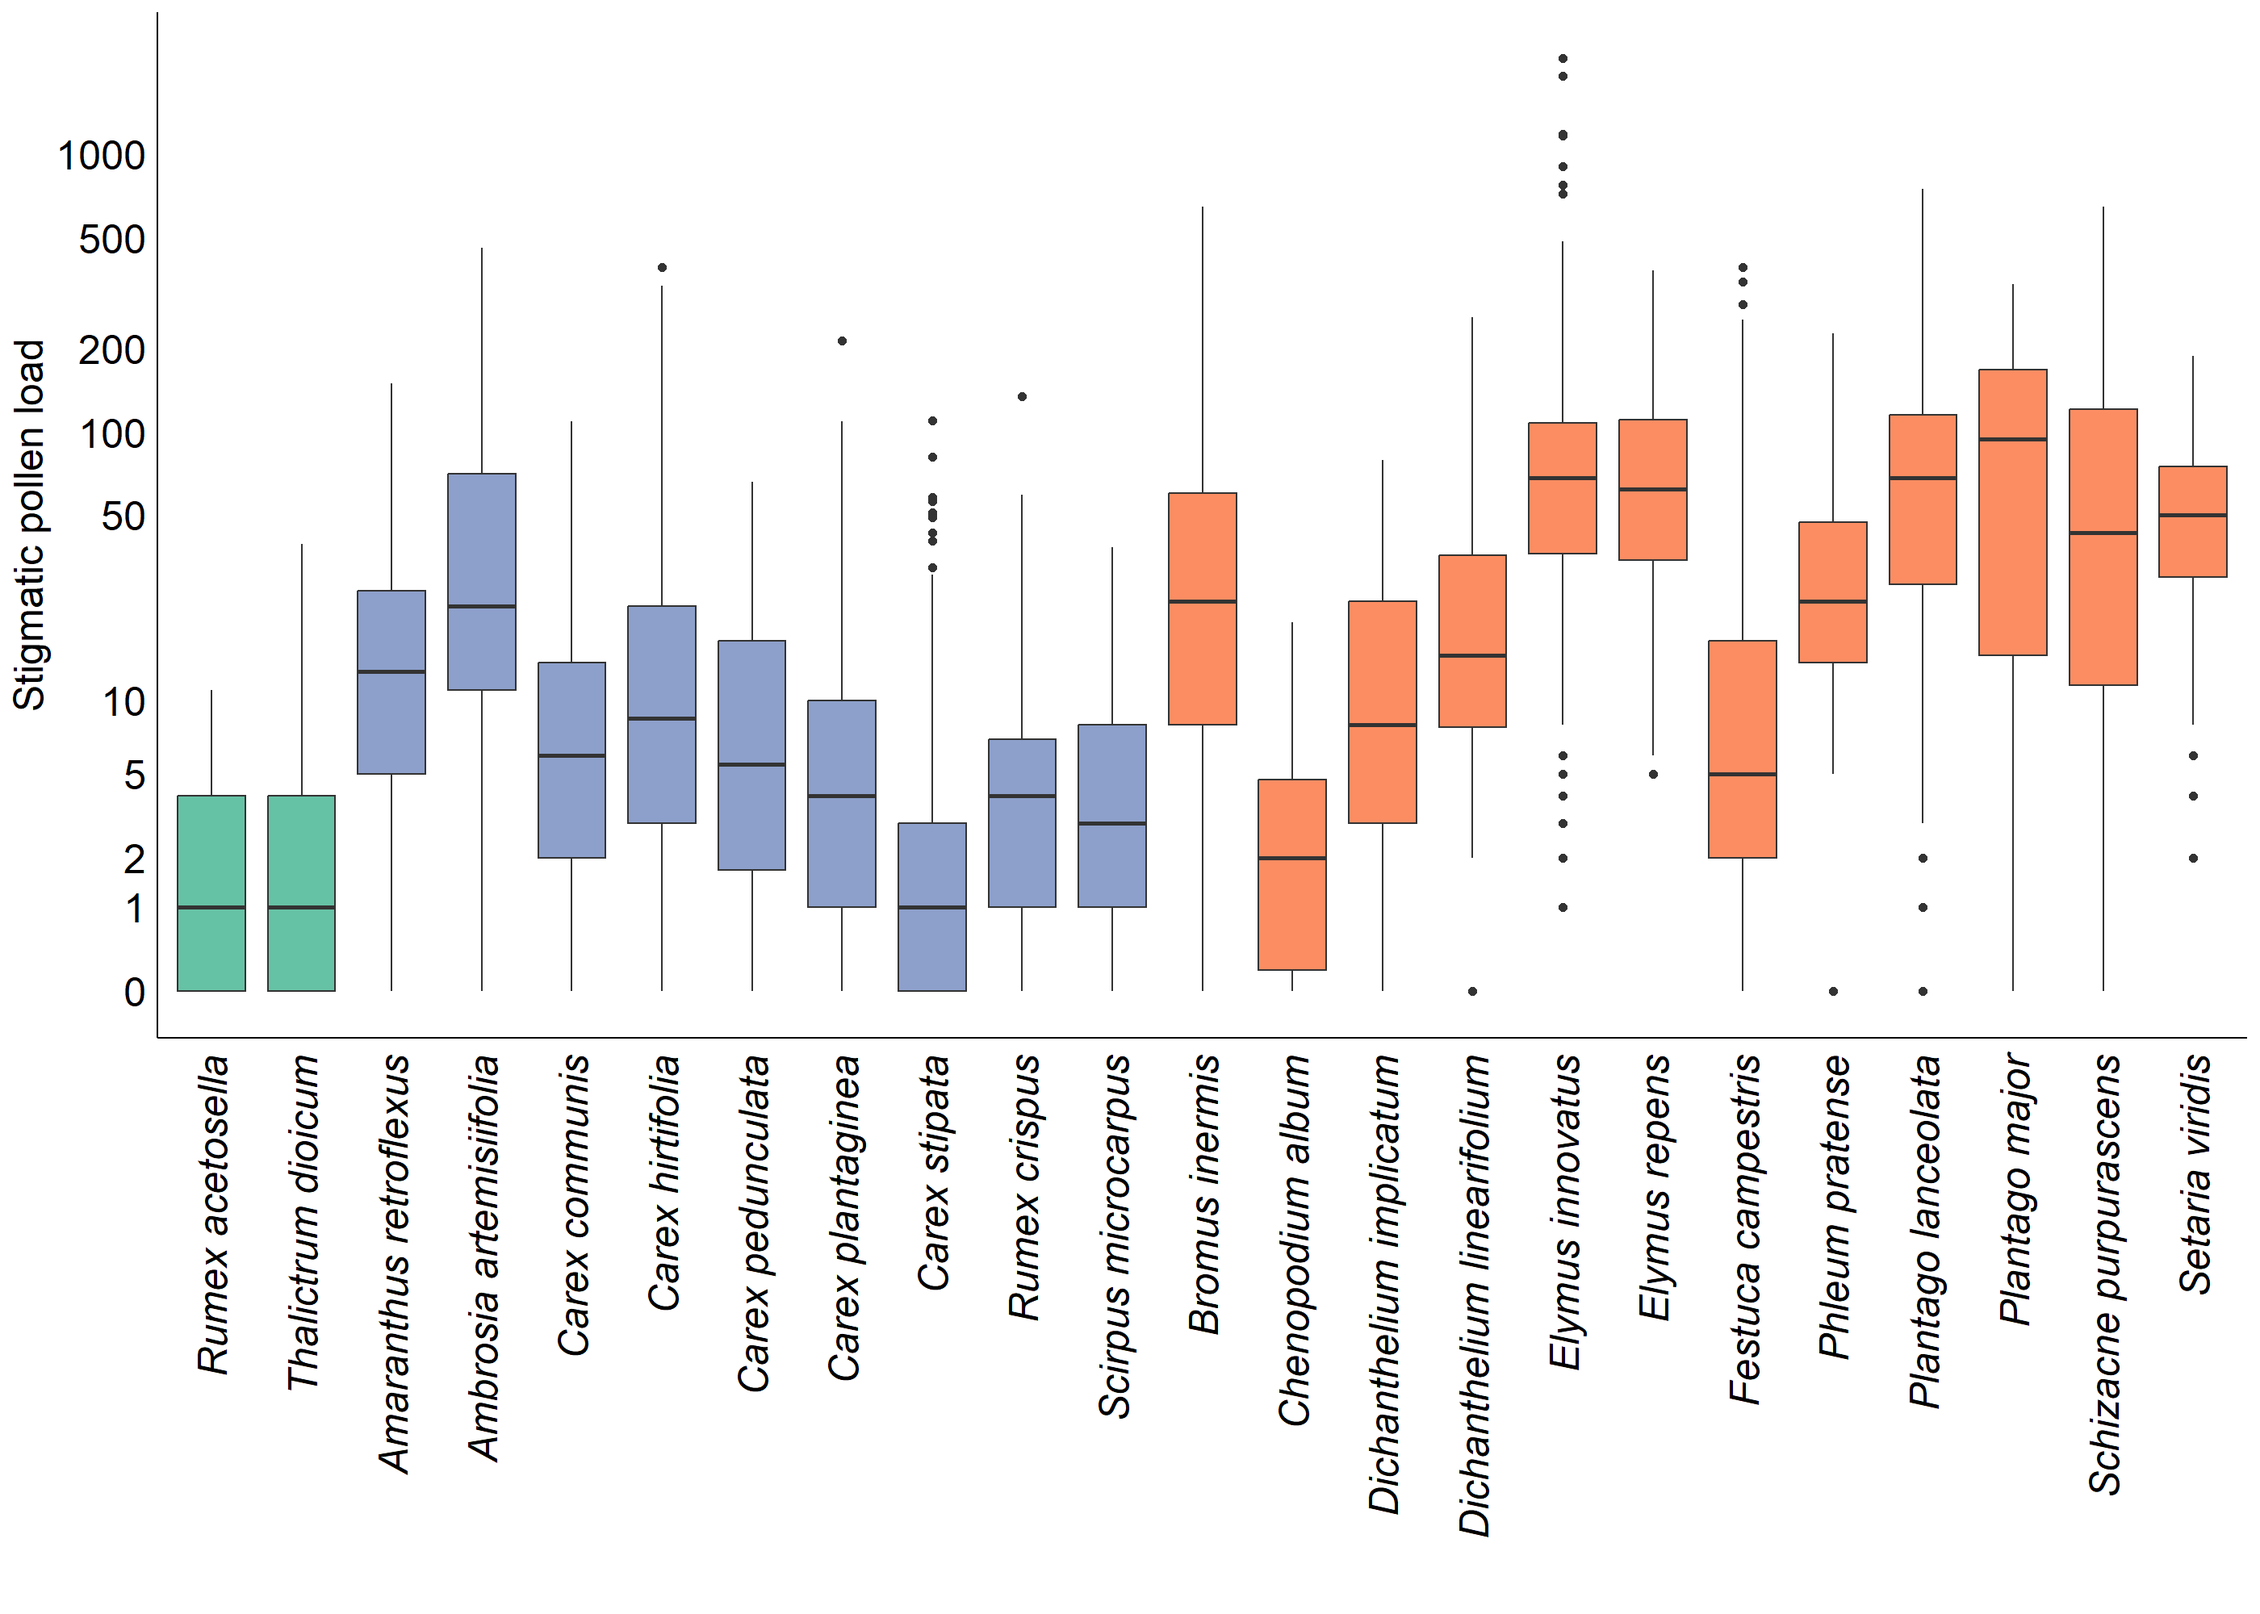
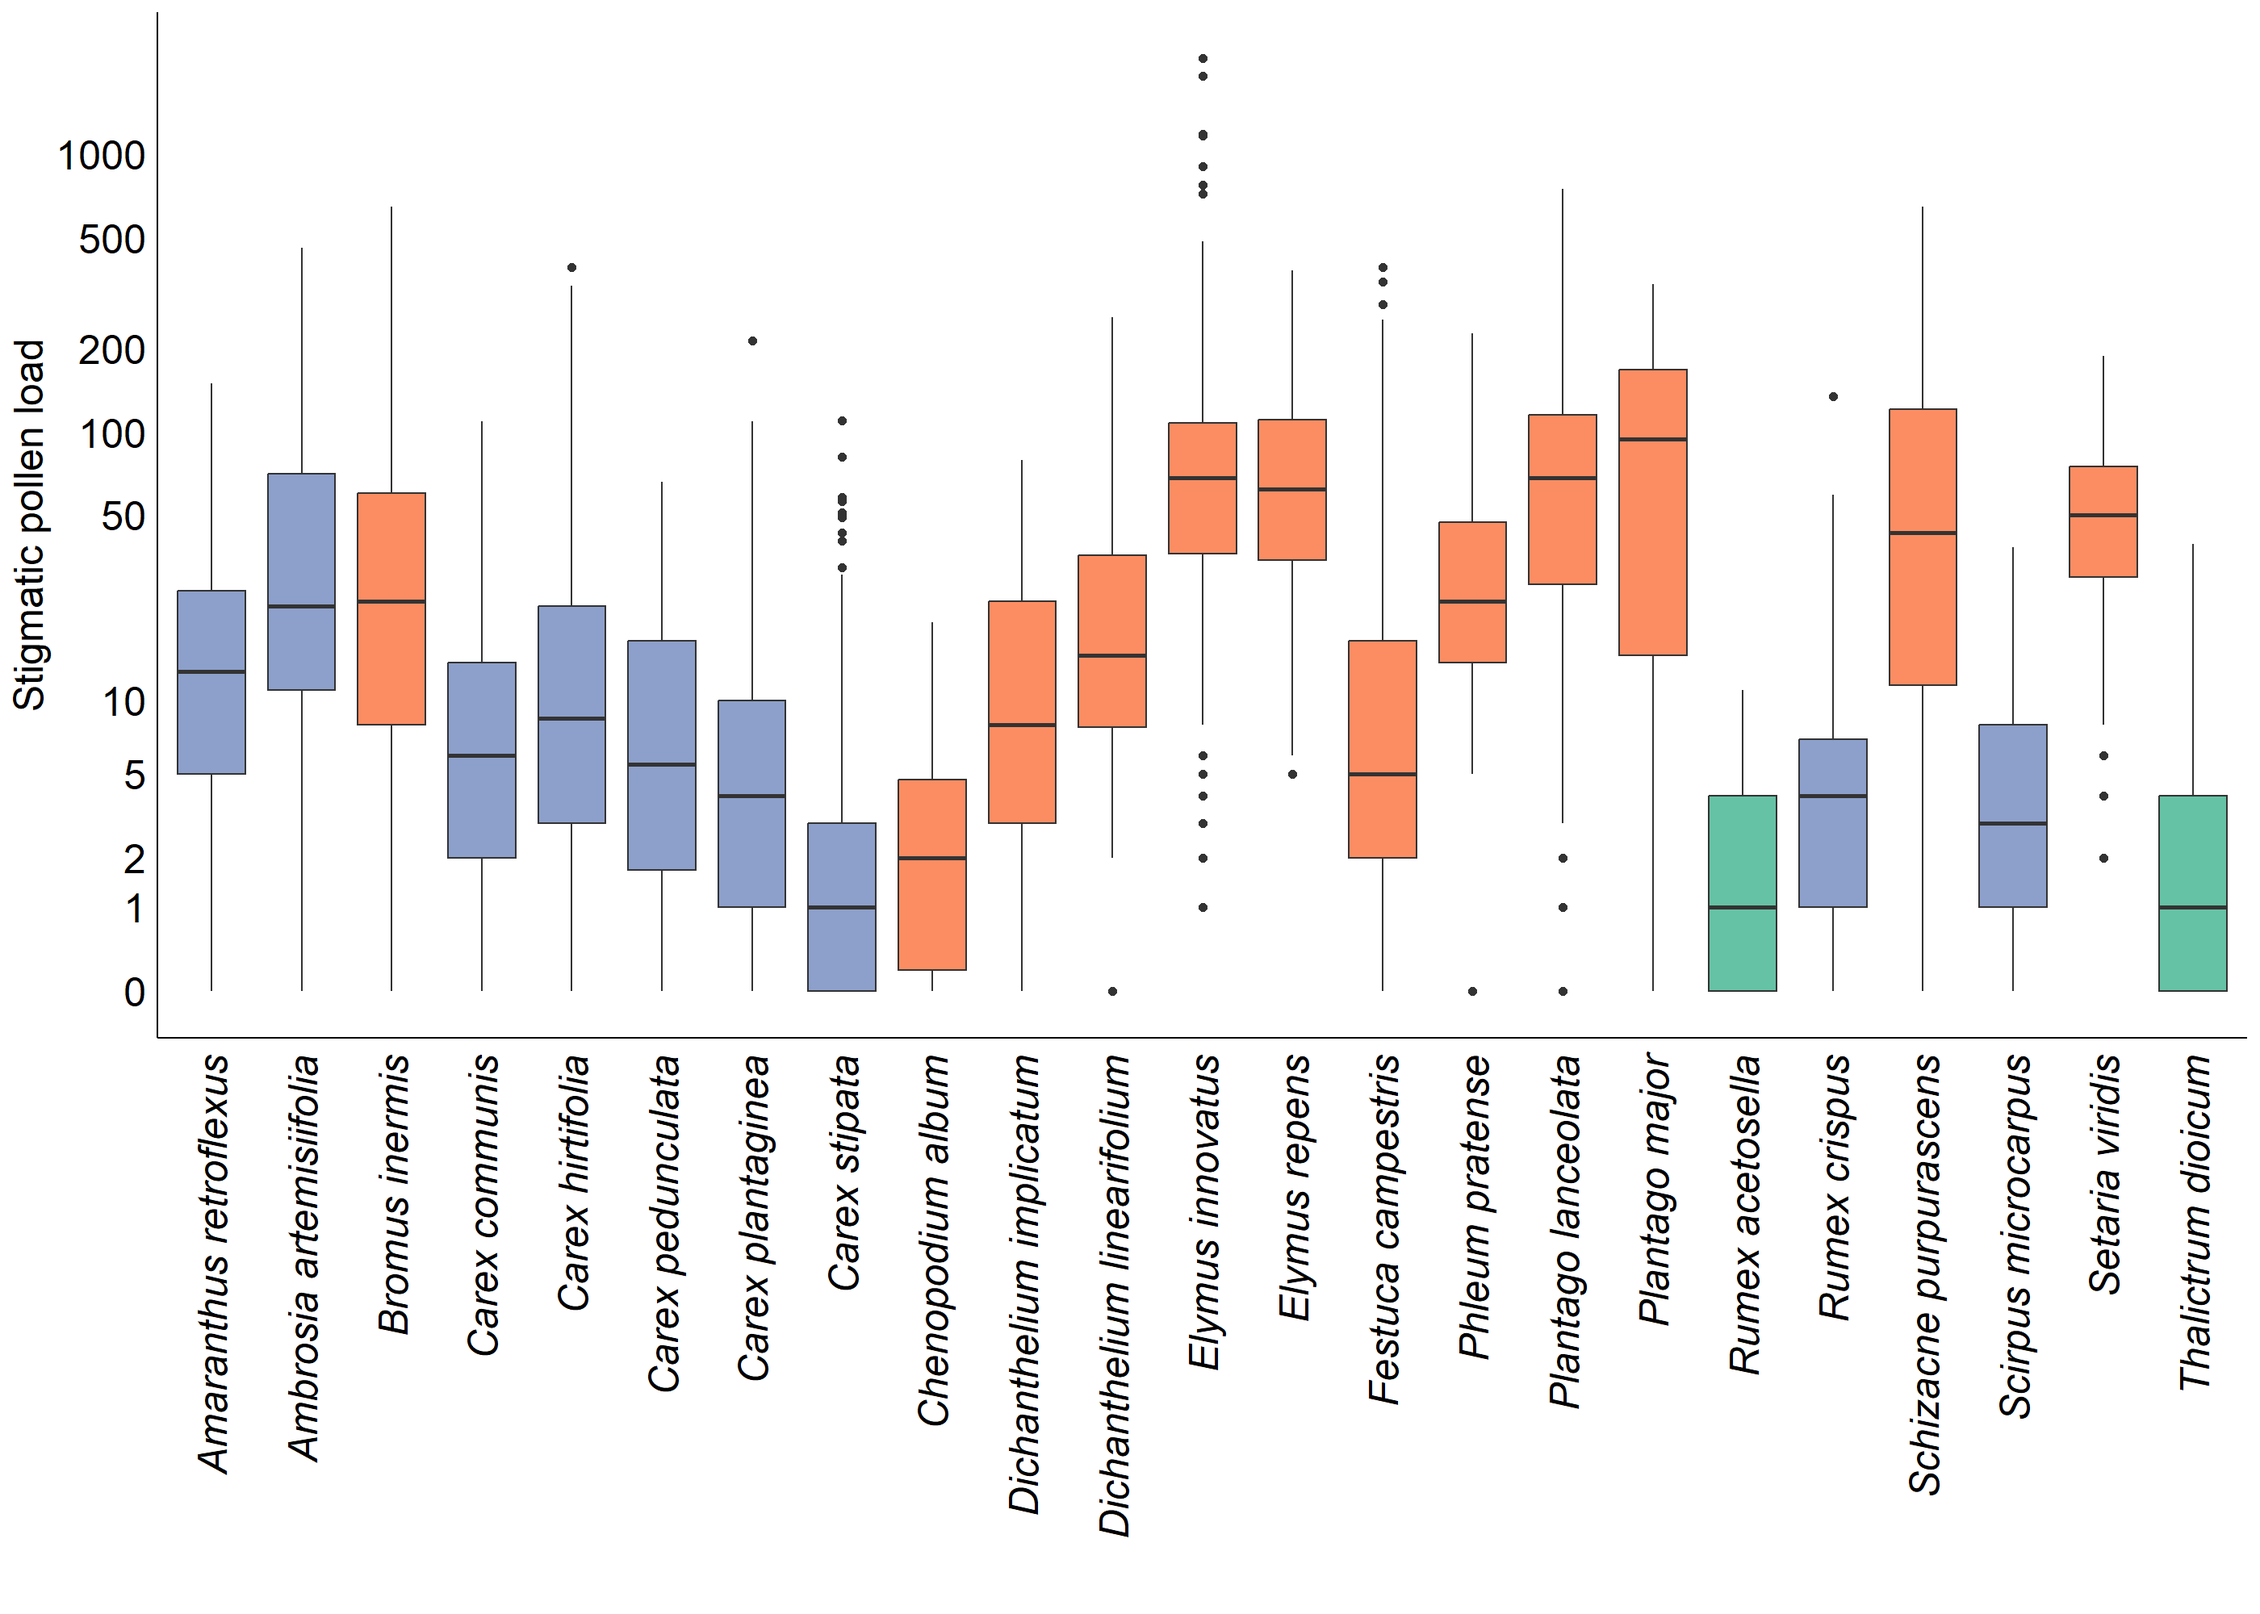
Edit tables so that species are listed alphabetically, not in order of sex system

diff --git a/Q2-1_pollen-capture-summary.md b/Q2-1_pollen-capture-summary.md
@@ -10,8 +10,7 @@ library(ggplot2)
 library(ggridges)
 
 # Source files
-source("clean-stig-01.R")
-source("clean-stig-02.R")
+source("clean-dat.R") # get cleaned data
 source("theme_cs.R")
 ```
 
@@ -69,10 +68,11 @@ Visualize distributions of pollen loads across species
 
 ``` r
 stig %>% 
-  # Arrange species in order of sex system and alphabetically by species
+  # Arrange species in order of sex system and alphabetically by species -- edit: just arrange in order of species alphabetically to match tables for easy comparison
   mutate(Sex_sys = as.character(Sex_sys),
-         Sex_sys = factor(Sex_sys, levels=c("dioecious", "monoecious", "hermaphroditic")) ) %>% 
-  arrange(desc(Sex_sys), desc(Species)) %>% 
+         Sex_sys = factor(Sex_sys, levels=c("dioecious", "monoecious", "hermaphroditic")) ) %>%
+  # arrange(desc(Sex_sys), desc(Species)) %>% 
+  arrange(desc(Species)) %>% 
   mutate(Species =  factor(Species, levels = unique(Species), ordered = T)) %>% 
   
   ggplot(aes(x=log(Flw_pollen+1), y=Species, fill=Sex_sys)) +
@@ -110,8 +110,9 @@ stig %>%
   mutate(Sex_sys = as.character(Sex_sys),
          Sex_sys = factor(Sex_sys, levels=c("dioecious", "monoecious", "hermaphroditic"),
                           ordered=T) ) %>% 
+  # arrange(desc(Sex_sys), desc(Species_SS)) %>% 
 
-  arrange(desc(Sex_sys), desc(Species_SS)) %>% 
+  arrange(desc(Species_SS)) %>% 
 
   mutate(Species_SS =  factor(Species_SS, levels = unique(Species_SS), ordered = T)) %>% 
 
@@ -143,7 +144,8 @@ stig %>%
     # Arrange species in order of sex system and alphabetically by species
   mutate(Sex_sys = as.character(Sex_sys),
          Sex_sys = factor(Sex_sys, levels=c("dioecious", "monoecious", "hermaphroditic")) ) %>% 
-  arrange(Sex_sys, Species) %>% 
+  # arrange(Sex_sys, Species) %>% 
+  arrange(Species) %>% 
   mutate(Species =  factor(Species, levels = unique(Species), ordered = T)) %>% 
   
   ggplot() + 
